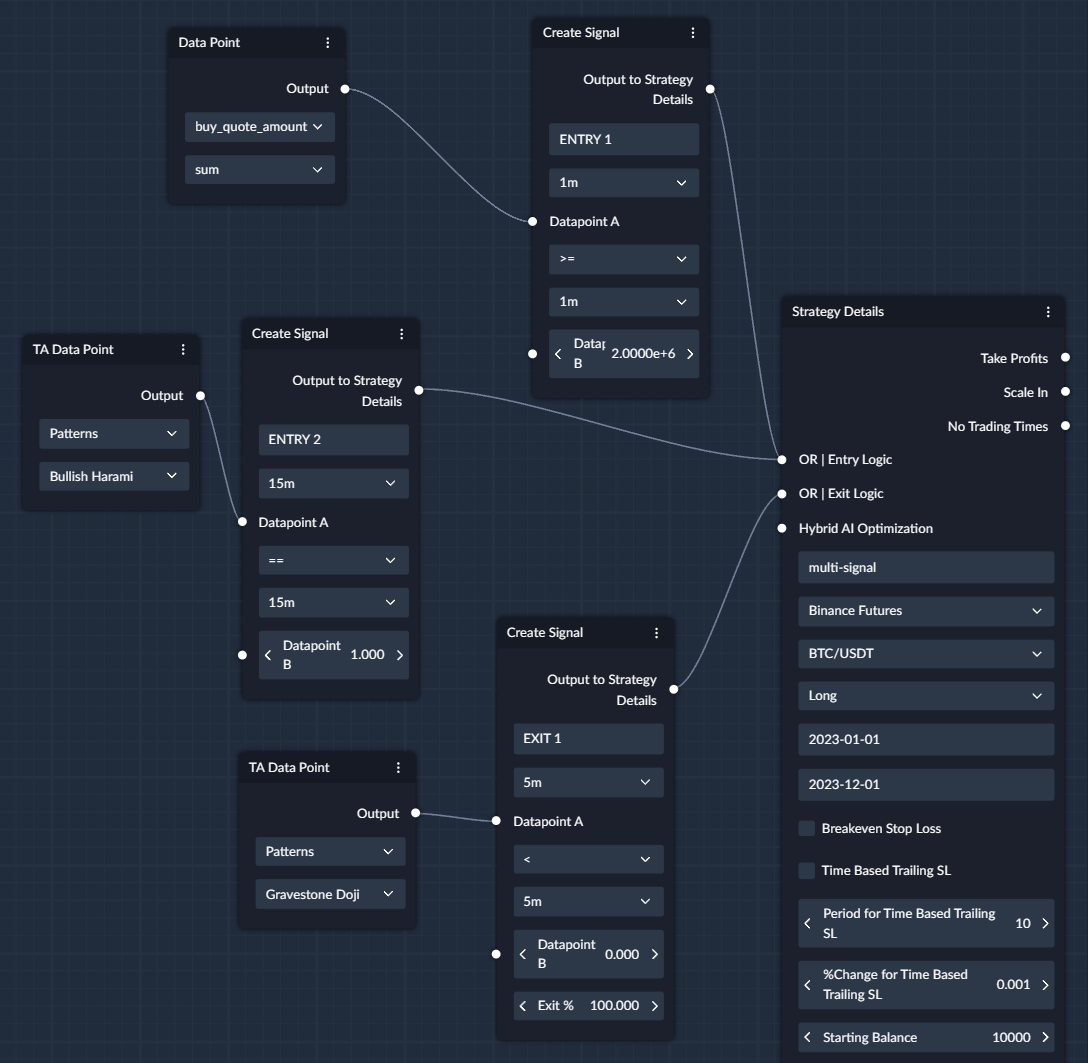
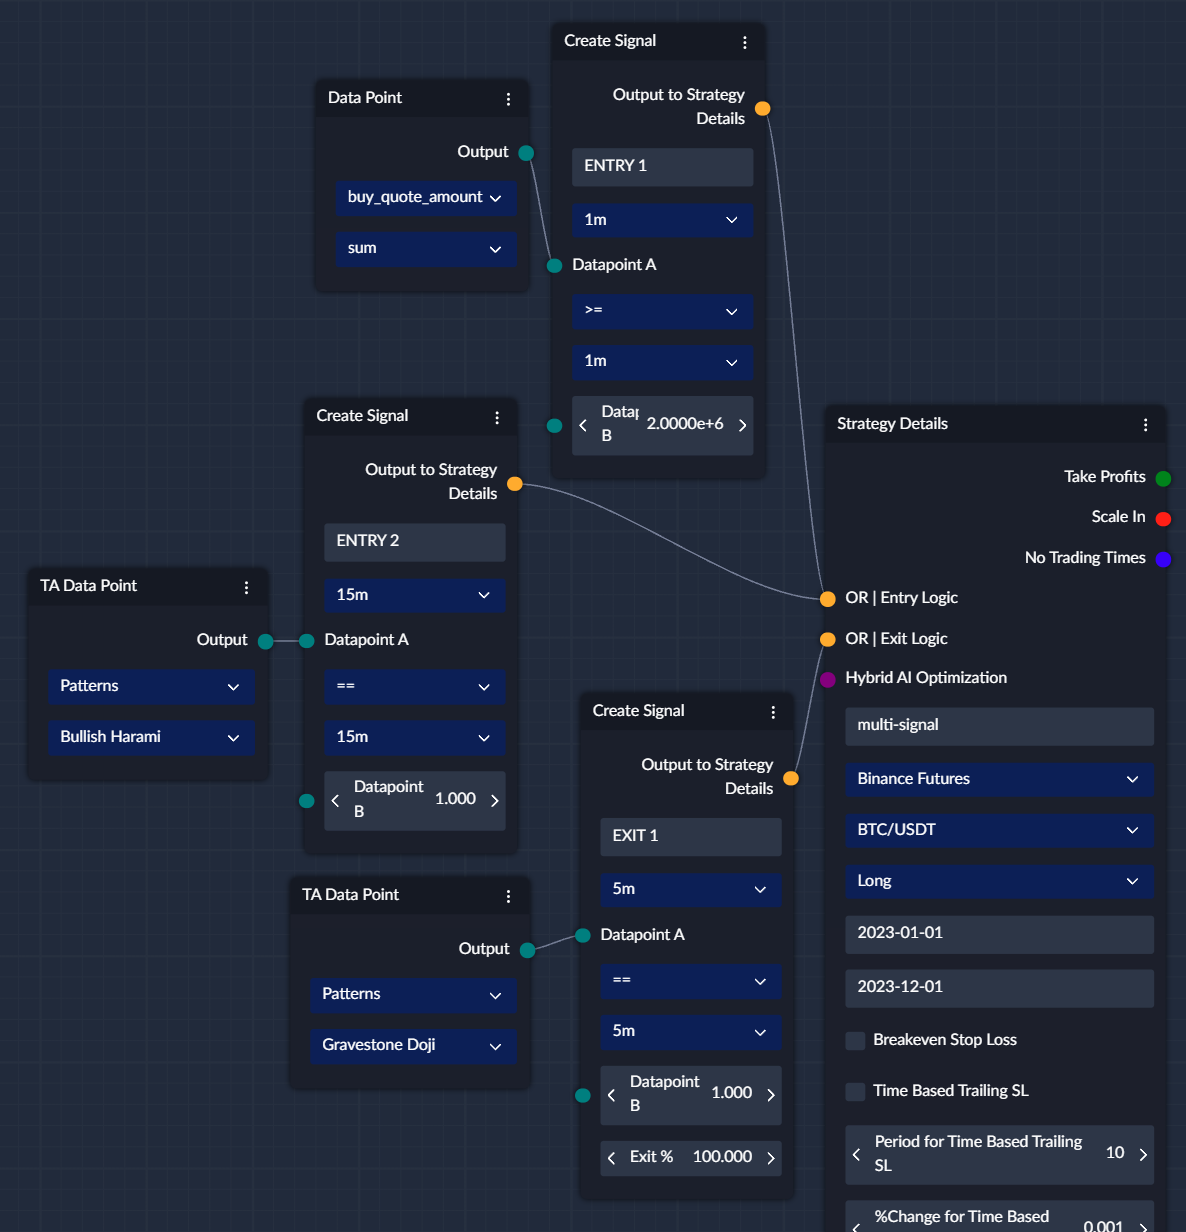
more docs

diff --git a/docs/paper_trading/paper_trading_overview.md b/docs/paper_trading/paper_trading_overview.md
@@ -1,0 +1,48 @@
+## Paper Trading Overview
+
+Monoquant platform supports paper trading to give you an opportunity to forward test your strategy without putting
+real money at stake, so you can get a better understanding about your strategy performance before you commit to it.
+
+When you launch your strategy on your paper account, it will operate as if it was running on a real account. Your signals 
+will be processed on real data from the exchange (prices, trades, orderbooks etc.). Also, if you want, you can receive 
+notifications to a messenger of your choice to keep even a closer look at how your strategy performs or in case you want 
+to try live executing the orders yourself.
+
+_The main thing we **can not simulate** properly is the **delays** in processing your order on the exchange **during high load**._ 
+While order execution often happens extremely quickly on most of the exchanges most of the time, during times of 
+significant volatility (high load) exchanges often introduce delays and your orders take much longer to process. Such 
+delays are not simulated, and it is always good to keep that in mind. 
+
+### How to Start Paper Strategy
+As soon as you are satisfied with your strategy in the backtests, setting your strategy live on Paper Account is just
+a single click of a button at the bottom of the strategy details `Set Paper Trading`. You would only need to select (or
+create) the Paper Account on which the strategy will run. The strategy will run on the exchange which was chosen in the
+paper account exchange field. So, for example, if you tested your strategy on bybit-perpetual, and want to run paper 
+strategy on bybit-perpetual, please, make sure to select paper account with bybit-perpetual set as exchange. 
+Also, note that leverage will not be accessible on spot exchanges. 
+
+### Your Paper Account
+You can create your paper account either in your account settings:
+
+1. ![img.png](images/navigate_to_paper_account.png)
+
+2. ![img.png](images/paper_account_creation_in_settings.png)
+
+Or directly in the strategy builder when you want to launch your paper strategy:
+![paper account creation in strategy builder](images/paper_acc_create_in_strategy_builder.png)
+
+### Monitoring Your Strategy
+
+#### Telegram
+To receive notifications on Telegram you need to go -> Settings (top right) -> Signal Connections
+
+![signal connections setup](images/signal_connections_paper.png)
+
+* Strategy Signals - turn on to receive all signals your strategy generates
+* Paper Trading - turn on to receive notifications about the actions (entries and exits) your strategy performs
+
+#### Paper Trading Live
+In the `Paper Trading Live` tab you can monitor your strategy live and also get full overview about the performance of
+you strategy similar to what you would see in the backtesting results. 
+
+![paper trading live tab](images/paper_trading_live_tab.png)

diff --git a/docs/general_docs/backtesting_engine.md b/docs/general_docs/backtesting_engine.md
@@ -1,0 +1,34 @@
+## Backtesting Engine
+
+TLDR
+
+* Backtest runs on aggregated trades at 1 millisecond resolution
+* This allows us to process multiple strategy actions at the same candle
+  * ie you can open position, add to position and close the position after several take profits on the same candle
+* Knowing how much time it takes for us and for the exchange to process your orders, we add this delay to the backtest simulating slippage
+* Your order size cannot be more than 40% of the recorded candle volume to prevent too unrealistic trades
+
+#### Overview of how our Backtesting Engine works
+
+The backtest runs on the "OHLCV candles" data until any single or multiple of the conditions created by the user are triggered. 
+Once the condition(s) are met, the engine goes to the trades data aggregated at 1 millisecond resolution to identify in 
+which order the conditions are triggered and executes all actions in that order. This allows our engine to execute 
+multiple different actions in a single candle and at the realistic price of execution rather than just at the 
+candle closing price. This is especially important for the cases when volatility is high in which cases you might execute 
+multiple take profits at the same candle or, for example, open the trade, execute take profit and then exit with a stop loss.
+
+Below is a made up example of how price might move within a single candle during high volatility, and for your backtests
+to be accurate it is important to know which prices were hit first which might radically change performance of your strategy.
+
+![price movement example in candle](images/candle_price_move_example.png)
+
+Further, to make the backtests more accurate, we add a delay to the execution price to simulate slippage because we know 
+how much time it takes us to process the order of the user and how much time it takes for the exchange to process the 
+order we send to it on behalf of the user. Again, during periods of high volatility, price might change quickly
+in a matter of milliseconds, so the slippage helps to simulate that.
+
+The engine considers the volume in the candle when making the trades to avoid issues in the backtests, when volume executed
+by the strategy is greater than the volume recorded in the candle, which is an indication that the price would've moved a lot
+if the order were to take place. To account for that the engine doesn't allow to make trades that are greater than 40% 
+of the volume recorded in the given candle. This is especially important for the cases when you backtest on assets with
+very low liquidity where relatively small trade size might significantly affect the price

diff --git a/docs/strategy_nodes/Create_Signal.md b/docs/strategy_nodes/Create_Signal.md
@@ -9,18 +9,23 @@
 ## Comparisons
 You can choose from the following comparison operators: >, <, >=, <=, !=, ==, Cross Over, Cross Under
 
-* Datapoint A **>** Datapoint B
-* Datapoint A **<** Datapoint B
-* Datapoint A **>=** Datapoint B
-* Datapoint A **==** Datapoint B
-* Datapoint A **!=** Datapoint B
-* Datapoint A **Cross Over** Datapoint B
-* Datapoint A **Cross Under** Datapoint B
+* Datapoint A **>** _(greater than)_ Datapoint B
+* Datapoint A **<** _(less than)_ Datapoint B
+* Datapoint A **>=** _(greater than or equal)_ Datapoint B
+* Datapoint A **<=** _(less than or equal)_ Datapoint B
+* Datapoint A **==** _(is equal to)_ Datapoint B
+* Datapoint A **!=** _(is not equal to)_ Datapoint B
+* Datapoint A **Cross Over** _(in previous period A < B and in current A > B)_ Datapoint B
+* Datapoint A **Cross Under** _(in previous period A > B and in current A < B)_ Datapoint B
 
-!!! warning "Regarding Data Points"
+!!! warning "Regarding RAW Data Points"
     **When using `raw` datapoints, it can only be compared to another `raw` on the same timeframe, other combinations, if they work, might produce unexpected results.**
     
     `raw` can also be compared to non-raw datapoints on the same tf without issues (they might even have different tfs, but that's also not recommended)
+
+If you want to check if a pre-build Indicator or TA pattern was triggered, you need to compare it to 1 to check if it was
+triggered, and to 0 to check if it wasn't triggered. Please, refer to the screenshot at the bottom for an example using
+TA Data Points (ENTRY 2 and EXIT 1).
 
 ## Example
 For example, for a very common trend trading strategies, you can use Cross Over / Cross Under operators to create your signals:

diff --git a/docs/strategy_nodes/Non_Trading_Times.md b/docs/strategy_nodes/Non_Trading_Times.md
@@ -1,7 +1,14 @@
 ## Define the times when the strategy will not trade
-The Non-Trading Times node allows you to define the times when the strategy will not trade. This can be useful if you want to avoid trading during certain times of the day, such as when the market is closed or when there is low liquidity.
+The Non-Trading Times node allows you to define the times when the strategy will not trade. 
+This can be useful if you want to avoid trading during certain times of the day, such as when the market is closed 
+or when there is low liquidity.
 
 ## How to use the Non-Trading Times node
-The times for the Non-Trading Times node are defined in the format `HH:MM:SS`.
+The times for the Non-Trading Times node are defined in the format `HH:MM`. The engine considers specified times to be 
+in `UTC`. 
 
-You can add multiple time ranges by adding more Non-Trading Times nodes to the strategy.
+So for example, you might think that the volume is generally lower before the UK and the US sessions start, so
+you can specify non-trading times as 01:00 - 07:00. Also, you might want to avoid trading around the close of the UK 
+session, so you can specify 15:40 - 17:40.
+
+![non trading time example](images/non_trading_times.png)
